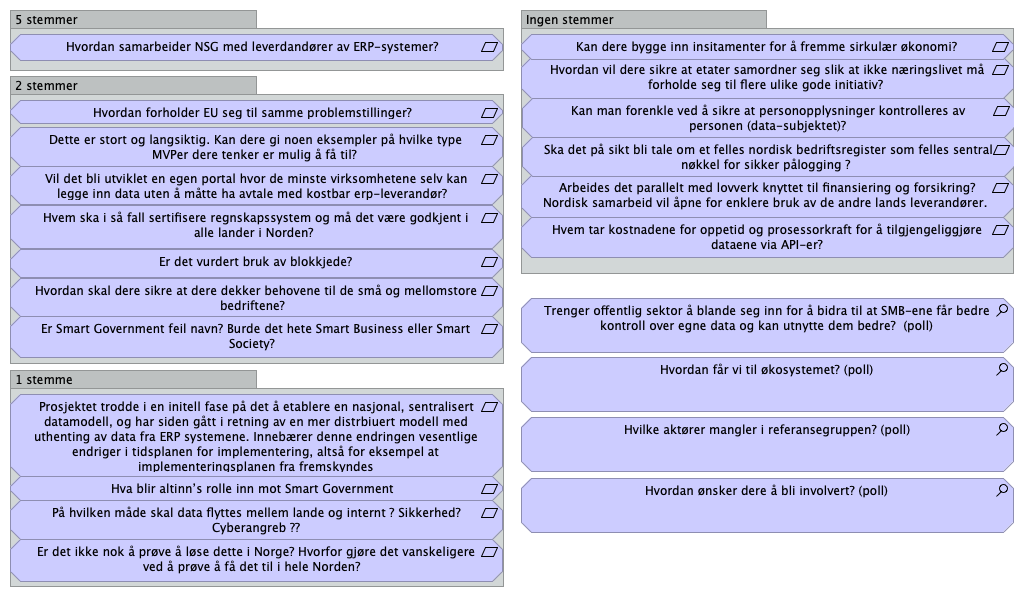
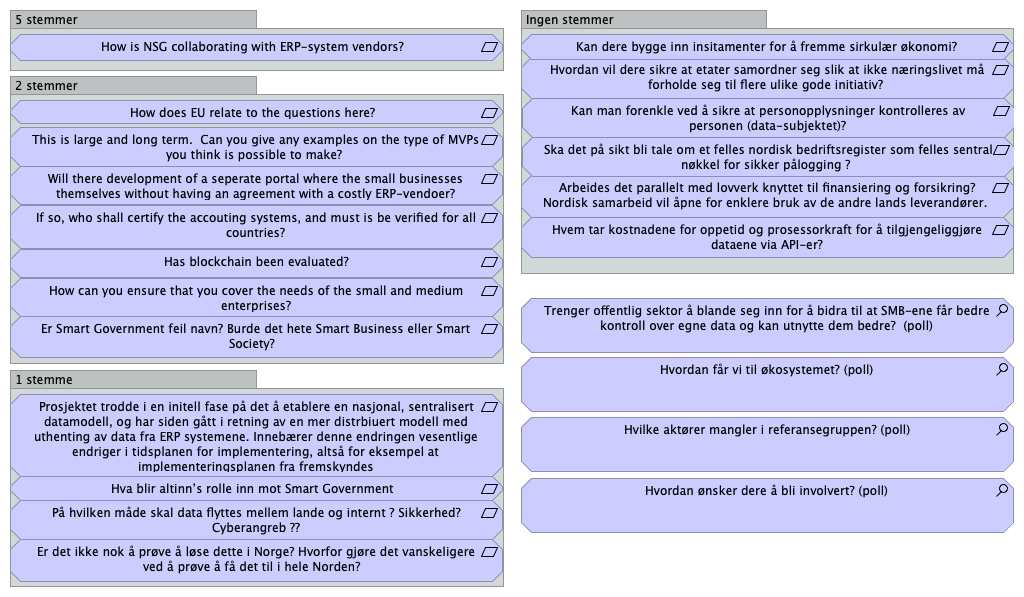
documentation

Changed region(s): [[0.0312, 0.1809, 0.4688, 0.4523], [0.0312, 0.4824, 0.4688, 0.5427], [0.0625, 0.0603, 0.4375, 0.0905]]

diff --git a/docs/index.html b/docs/index.html
@@ -596,9 +596,9 @@
 													<li class="tree-element"><a href="54e87e47-f01c-49fe-af55-2068f4564bd2/elements/5837d2c0-83d3-4c63-b780-0b61f04c67fe.html" target="element"> Fremtiden, sikre kjeder </a></li>
 													<li class="tree-element"><a href="54e87e47-f01c-49fe-af55-2068f4564bd2/elements/690015ae-1257-4f6d-96e3-61300d201adb.html" target="element"> SSB er med </a></li>
 													<li class="tree-element"><a href="54e87e47-f01c-49fe-af55-2068f4564bd2/elements/8bc7e39a-cb68-4da4-97e9-a180cccfc1c7.html" target="element"> Kan dere bygge inn insitamenter for &#229; fremme sirkul&#230;r &#248;konomi? </a></li>
-													<li class="tree-element"><a href="54e87e47-f01c-49fe-af55-2068f4564bd2/elements/8e9544b5-77bb-4204-9220-537d219df1c4.html" target="element"> Hvordan forholder EU seg til samme problemstillinger?   </a></li>
-													<li class="tree-element"><a href="54e87e47-f01c-49fe-af55-2068f4564bd2/elements/28fc962b-de54-4f29-a3e7-457b409d42a0.html" target="element"> Hvordan samarbeider NSG med leverdand&#248;rer av ERP-systemer?   </a></li>
-													<li class="tree-element"><a href="54e87e47-f01c-49fe-af55-2068f4564bd2/elements/20a96016-dc22-4dfe-a6c0-c456c0622a7b.html" target="element"> Dette er stort og langsiktig. Kan dere gi noen eksempler p&#229; hvilke type MVPer dere tenker er mulig &#229; f&#229; til?  </a></li>
+													<li class="tree-element"><a href="54e87e47-f01c-49fe-af55-2068f4564bd2/elements/8e9544b5-77bb-4204-9220-537d219df1c4.html" target="element"> How does EU relate to the questions here?   </a></li>
+													<li class="tree-element"><a href="54e87e47-f01c-49fe-af55-2068f4564bd2/elements/28fc962b-de54-4f29-a3e7-457b409d42a0.html" target="element"> How is NSG collaborating with ERP-system vendors?   </a></li>
+													<li class="tree-element"><a href="54e87e47-f01c-49fe-af55-2068f4564bd2/elements/20a96016-dc22-4dfe-a6c0-c456c0622a7b.html" target="element"> This is large and long term.  Can you give any examples on the type of MVPs you think is possible to make?  </a></li>
 													<li class="tree-element"><a href="54e87e47-f01c-49fe-af55-2068f4564bd2/elements/f37de0f2-119c-417b-850d-3db151cee11a.html" target="element"> Hvordan vil dere sikre at etater samordner seg slik at ikke n&#230;ringslivet m&#229; forholde seg til flere ulike gode initiativ?  </a></li>
 													<li class="tree-element"><a href="54e87e47-f01c-49fe-af55-2068f4564bd2/elements/b20498c5-f345-48c4-a2fb-5e942b6e6014.html" target="element"> Kan man forenkle ved &#229; sikre at personopplysninger kontrolleres av personen (data-subjektet)? </a></li>
 													<li class="tree-element"><a href="54e87e47-f01c-49fe-af55-2068f4564bd2/elements/6fef4564-1aa9-476e-b331-51effa976ce3.html" target="element"> Ska det p&#229; sikt bli tale om et felles nordisk bedriftsregister som felles sentral n&#248;kkel for sikker p&#229;logging ?  </a></li>
@@ -607,14 +607,14 @@
 													<li class="tree-element"><a href="54e87e47-f01c-49fe-af55-2068f4564bd2/elements/5c370b06-c60e-4155-b5b1-b52bf1fa7c15.html" target="element"> WTO:  Agreement on Trade-Related Aspects of Intellectual Property Rights (TRIPS)   </a></li>
 													<li class="tree-element"><a href="54e87e47-f01c-49fe-af55-2068f4564bd2/elements/4e845139-0257-4b12-b0ff-97636237c300.html" target="element"> Undisclosed information </a></li>
 													<li class="tree-element"><a href="54e87e47-f01c-49fe-af55-2068f4564bd2/elements/3b628977-65da-4517-b8df-cae471be0c7a.html" target="element"> Arbeides det parallelt med lovverk knyttet til finansiering og forsikring? Nordisk samarbeid vil &#229;pne for enklere bruk av de andre lands leverand&#248;rer.  </a></li>
-													<li class="tree-element"><a href="54e87e47-f01c-49fe-af55-2068f4564bd2/elements/6c9e515a-c5bd-4cc8-aa9f-ce89ebdc07be.html" target="element"> Vil det bli utviklet en egen portal hvor de minste virksomhetene selv kan legge inn data uten &#229; m&#229;tte ha avtale med kostbar erp-leverand&#248;r?   </a></li>
-													<li class="tree-element"><a href="54e87e47-f01c-49fe-af55-2068f4564bd2/elements/4829e155-0b21-41a0-8cad-3a2e3bdec14c.html" target="element"> Hvem ska i s&#229; fall sertifisere regnskapssystem og m&#229; det v&#230;re godkjent i alle lander i Norden?  </a></li>
+													<li class="tree-element"><a href="54e87e47-f01c-49fe-af55-2068f4564bd2/elements/6c9e515a-c5bd-4cc8-aa9f-ce89ebdc07be.html" target="element"> Will there development of a seperate portal where the small businesses themselves without having an agreement with a costly ERP-vendoer? </a></li>
+													<li class="tree-element"><a href="54e87e47-f01c-49fe-af55-2068f4564bd2/elements/4829e155-0b21-41a0-8cad-3a2e3bdec14c.html" target="element"> If so, who shall certify the accouting systems, and must is be verified for all countries? </a></li>
 													<li class="tree-element"><a href="54e87e47-f01c-49fe-af55-2068f4564bd2/elements/9d3a917a-ad94-4b61-a7a8-106d4c164755.html" target="element"> Hva blir altinn&#8217;s rolle inn mot Smart Government   </a></li>
 													<li class="tree-element"><a href="54e87e47-f01c-49fe-af55-2068f4564bd2/elements/a9b893a2-9598-4b15-911f-8b4c71afad77.html" target="element"> P&#229; hvilken m&#229;de skal data flyttes mellem lande og internt ? Sikkerhed? Cyberangreb ?? </a></li>
-													<li class="tree-element"><a href="54e87e47-f01c-49fe-af55-2068f4564bd2/elements/c95b5acd-4e6f-43a1-8996-a1913cf5fb74.html" target="element"> Er det vurdert bruk av blokkjede? </a></li>
+													<li class="tree-element"><a href="54e87e47-f01c-49fe-af55-2068f4564bd2/elements/c95b5acd-4e6f-43a1-8996-a1913cf5fb74.html" target="element"> Has blockchain been evaluated? </a></li>
 													<li class="tree-element"><a href="54e87e47-f01c-49fe-af55-2068f4564bd2/elements/5e92a653-27f1-4c33-b1ed-0b74d7776b49.html" target="element"> Er Smart Government feil navn? Burde det hete Smart Business eller Smart Society?   </a></li>
 													<li class="tree-element"><a href="54e87e47-f01c-49fe-af55-2068f4564bd2/elements/21cd03fa-d93f-4369-9f67-f95129f2e5c9.html" target="element"> Er det ikke nok &#229; pr&#248;ve &#229; l&#248;se dette i Norge? Hvorfor gj&#248;re det vanskeligere ved &#229; pr&#248;ve &#229; f&#229; det til i hele Norden?   </a></li>
-													<li class="tree-element"><a href="54e87e47-f01c-49fe-af55-2068f4564bd2/elements/cc54483f-bda1-4259-884f-cc55718f9716.html" target="element"> Hvordan skal dere sikre at dere dekker behovene til de sm&#229; og mellomstore bedriftene?   </a></li>
+													<li class="tree-element"><a href="54e87e47-f01c-49fe-af55-2068f4564bd2/elements/cc54483f-bda1-4259-884f-cc55718f9716.html" target="element"> How can you ensure that you cover the needs of the small and medium enterprises? </a></li>
 													<li class="tree-element"><a href="54e87e47-f01c-49fe-af55-2068f4564bd2/elements/341e599f-01a3-43ad-bb1e-1b3b62fd7945.html" target="element"> Trenger offentlig sektor &#229; blande seg inn for &#229; bidra til at SMB-ene f&#229;r bedre kontroll over egne data og kan utnytte dem bedre?  (poll) </a></li>
 													<li class="tree-element"><a href="54e87e47-f01c-49fe-af55-2068f4564bd2/elements/48bc05c4-8a10-4c6a-b93d-f9fb4befa66b.html" target="element"> Hvordan f&#229;r vi til &#248;kosystemet? (poll) </a></li>
 													<li class="tree-element"><a href="54e87e47-f01c-49fe-af55-2068f4564bd2/elements/22d9683b-867b-47e1-8be6-19624324a46a.html" target="element"> Hvordan &#248;nsker dere &#229; bli involvert? (poll) </a></li>

diff --git a/docs/54e87e47-f01c-49fe-af55-2068f4564bd2/views/e0eb4804-d8e0-4310-8a4f-a924dd158fdf.html b/docs/54e87e47-f01c-49fe-af55-2068f4564bd2/views/e0eb4804-d8e0-4310-8a4f-a924dd158fdf.html
@@ -93,15 +93,15 @@
 										<tr><td> <a href="../elements/341e599f-01a3-43ad-bb1e-1b3b62fd7945.html" target="element"> Trenger offentlig sektor &#229; blande seg inn for &#229; bidra til at SMB-ene f&#229;r bedre kontroll over egne data og kan utnytte dem bedre?  (poll) </a> </td><td class="i18n-elementtype-Assessment"></td></tr>
 										<!-- DEBUG: Skipping element from class com.archimatetool.model.impl.DiagramModelGroup -->	
 												<tr><td> <a href="../elements/5e92a653-27f1-4c33-b1ed-0b74d7776b49.html" target="element"> Er Smart Government feil navn? Burde det hete Smart Business eller Smart Society?   </a> </td><td class="i18n-elementtype-Requirement"></td></tr>
-												<tr><td> <a href="../elements/cc54483f-bda1-4259-884f-cc55718f9716.html" target="element"> Hvordan skal dere sikre at dere dekker behovene til de sm&#229; og mellomstore bedriftene?   </a> </td><td class="i18n-elementtype-Requirement"></td></tr>
-												<tr><td> <a href="../elements/c95b5acd-4e6f-43a1-8996-a1913cf5fb74.html" target="element"> Er det vurdert bruk av blokkjede? </a> </td><td class="i18n-elementtype-Requirement"></td></tr>
-												<tr><td> <a href="../elements/4829e155-0b21-41a0-8cad-3a2e3bdec14c.html" target="element"> Hvem ska i s&#229; fall sertifisere regnskapssystem og m&#229; det v&#230;re godkjent i alle lander i Norden?  </a> </td><td class="i18n-elementtype-Requirement"></td></tr>
-												<tr><td> <a href="../elements/6c9e515a-c5bd-4cc8-aa9f-ce89ebdc07be.html" target="element"> Vil det bli utviklet en egen portal hvor de minste virksomhetene selv kan legge inn data uten &#229; m&#229;tte ha avtale med kostbar erp-leverand&#248;r?   </a> </td><td class="i18n-elementtype-Requirement"></td></tr>
-												<tr><td> <a href="../elements/20a96016-dc22-4dfe-a6c0-c456c0622a7b.html" target="element"> Dette er stort og langsiktig. Kan dere gi noen eksempler p&#229; hvilke type MVPer dere tenker er mulig &#229; f&#229; til?  </a> </td><td class="i18n-elementtype-Requirement"></td></tr>
-												<tr><td> <a href="../elements/8e9544b5-77bb-4204-9220-537d219df1c4.html" target="element"> Hvordan forholder EU seg til samme problemstillinger?   </a> </td><td class="i18n-elementtype-Requirement"></td></tr>
+												<tr><td> <a href="../elements/cc54483f-bda1-4259-884f-cc55718f9716.html" target="element"> How can you ensure that you cover the needs of the small and medium enterprises? </a> </td><td class="i18n-elementtype-Requirement"></td></tr>
+												<tr><td> <a href="../elements/c95b5acd-4e6f-43a1-8996-a1913cf5fb74.html" target="element"> Has blockchain been evaluated? </a> </td><td class="i18n-elementtype-Requirement"></td></tr>
+												<tr><td> <a href="../elements/4829e155-0b21-41a0-8cad-3a2e3bdec14c.html" target="element"> If so, who shall certify the accouting systems, and must is be verified for all countries? </a> </td><td class="i18n-elementtype-Requirement"></td></tr>
+												<tr><td> <a href="../elements/6c9e515a-c5bd-4cc8-aa9f-ce89ebdc07be.html" target="element"> Will there development of a seperate portal where the small businesses themselves without having an agreement with a costly ERP-vendoer? </a> </td><td class="i18n-elementtype-Requirement"></td></tr>
+												<tr><td> <a href="../elements/20a96016-dc22-4dfe-a6c0-c456c0622a7b.html" target="element"> This is large and long term.  Can you give any examples on the type of MVPs you think is possible to make?  </a> </td><td class="i18n-elementtype-Requirement"></td></tr>
+												<tr><td> <a href="../elements/8e9544b5-77bb-4204-9220-537d219df1c4.html" target="element"> How does EU relate to the questions here?   </a> </td><td class="i18n-elementtype-Requirement"></td></tr>
 										
 										<!-- DEBUG: Skipping element from class com.archimatetool.model.impl.DiagramModelGroup -->	
-												<tr><td> <a href="../elements/28fc962b-de54-4f29-a3e7-457b409d42a0.html" target="element"> Hvordan samarbeider NSG med leverdand&#248;rer av ERP-systemer?   </a> </td><td class="i18n-elementtype-Requirement"></td></tr>
+												<tr><td> <a href="../elements/28fc962b-de54-4f29-a3e7-457b409d42a0.html" target="element"> How is NSG collaborating with ERP-system vendors?   </a> </td><td class="i18n-elementtype-Requirement"></td></tr>
 										
 										<!-- DEBUG: Skipping element from class com.archimatetool.model.impl.DiagramModelGroup -->	
 												<tr><td> <a href="../elements/a52cd566-4056-4667-9f46-1db191d540f3.html" target="element"> Prosjektet trodde i en initell fase p&#229; det &#229; etablere en nasjonal, sentralisert datamodell, og har siden g&#229;tt i retning av en mer distrbiuert modell med uthenting av data fra ERP systemene. Inneb&#230;rer denne endringen vesentlige endriger i tidsplanen for implementering, alts&#229; for eksempel at implementeringsplanen fra fremskyndes </a> </td><td class="i18n-elementtype-Requirement"></td></tr>

diff --git a/docs/54e87e47-f01c-49fe-af55-2068f4564bd2/elements/6c9e515a-c5bd-4cc8-aa9f-ce89ebdc07be.html b/docs/54e87e47-f01c-49fe-af55-2068f4564bd2/elements/6c9e515a-c5bd-4cc8-aa9f-ce89ebdc07be.html
@@ -2,7 +2,7 @@
 <html class="frame" lang="en">
 <head>
 	<meta http-equiv="Content-Type" content="text/html;charset=utf-8">
-	<title>Vil det bli utviklet en egen portal hvor de minste virksomhetene selv kan legge inn data uten å måtte ha avtale med kostbar erp-leverandør?  </title>
+	<title>Will there development of a seperate portal where the small businesses themselves without having an agreement with a costly ERP-vendoer?</title>
 
 	<!-- JQUERY (use 1.x branch to be compatible with IE 6/7/8) -->
 	<script type="text/javascript" src="../../lib/jquery/js/jquery-1.11.2.min.js"></script>
@@ -20,7 +20,7 @@
 <body>
 	<div class="panel panel-default root-panel">
 		<div class="panel-heading root-panel-heading">
-			<b>Vil det bli utviklet en egen portal hvor de minste virksomhetene selv kan legge inn data uten &#229; m&#229;tte ha avtale med kostbar erp-leverand&#248;r?  </b>
+			<b>Will there development of a seperate portal where the small businesses themselves without having an agreement with a costly ERP-vendoer?</b>
 			(<span class="i18n-elementtype-Requirement"></span>)
 			<a class="glyphicon glyphicon-info-sign" id="hint-Requirement" target="hint"></a>
 		</div>

diff --git a/docs/54e87e47-f01c-49fe-af55-2068f4564bd2/elements/20a96016-dc22-4dfe-a6c0-c456c0622a7b.html b/docs/54e87e47-f01c-49fe-af55-2068f4564bd2/elements/20a96016-dc22-4dfe-a6c0-c456c0622a7b.html
@@ -2,7 +2,7 @@
 <html class="frame" lang="en">
 <head>
 	<meta http-equiv="Content-Type" content="text/html;charset=utf-8">
-	<title>Dette er stort og langsiktig. Kan dere gi noen eksempler på hvilke type MVPer dere tenker er mulig å få til? </title>
+	<title>This is large and long term.  Can you give any examples on the type of MVPs you think is possible to make? </title>
 
 	<!-- JQUERY (use 1.x branch to be compatible with IE 6/7/8) -->
 	<script type="text/javascript" src="../../lib/jquery/js/jquery-1.11.2.min.js"></script>
@@ -20,7 +20,7 @@
 <body>
 	<div class="panel panel-default root-panel">
 		<div class="panel-heading root-panel-heading">
-			<b>Dette er stort og langsiktig. Kan dere gi noen eksempler p&#229; hvilke type MVPer dere tenker er mulig &#229; f&#229; til? </b>
+			<b>This is large and long term.  Can you give any examples on the type of MVPs you think is possible to make? </b>
 			(<span class="i18n-elementtype-Requirement"></span>)
 			<a class="glyphicon glyphicon-info-sign" id="hint-Requirement" target="hint"></a>
 		</div>

diff --git a/docs/54e87e47-f01c-49fe-af55-2068f4564bd2/elements/4829e155-0b21-41a0-8cad-3a2e3bdec14c.html b/docs/54e87e47-f01c-49fe-af55-2068f4564bd2/elements/4829e155-0b21-41a0-8cad-3a2e3bdec14c.html
@@ -2,7 +2,7 @@
 <html class="frame" lang="en">
 <head>
 	<meta http-equiv="Content-Type" content="text/html;charset=utf-8">
-	<title>Hvem ska i så fall sertifisere regnskapssystem og må det være godkjent i alle lander i Norden? </title>
+	<title>If so, who shall certify the accouting systems, and must is be verified for all countries?</title>
 
 	<!-- JQUERY (use 1.x branch to be compatible with IE 6/7/8) -->
 	<script type="text/javascript" src="../../lib/jquery/js/jquery-1.11.2.min.js"></script>
@@ -20,7 +20,7 @@
 <body>
 	<div class="panel panel-default root-panel">
 		<div class="panel-heading root-panel-heading">
-			<b>Hvem ska i s&#229; fall sertifisere regnskapssystem og m&#229; det v&#230;re godkjent i alle lander i Norden? </b>
+			<b>If so, who shall certify the accouting systems, and must is be verified for all countries?</b>
 			(<span class="i18n-elementtype-Requirement"></span>)
 			<a class="glyphicon glyphicon-info-sign" id="hint-Requirement" target="hint"></a>
 		</div>

diff --git a/docs/54e87e47-f01c-49fe-af55-2068f4564bd2/elements/cc54483f-bda1-4259-884f-cc55718f9716.html b/docs/54e87e47-f01c-49fe-af55-2068f4564bd2/elements/cc54483f-bda1-4259-884f-cc55718f9716.html
@@ -2,7 +2,7 @@
 <html class="frame" lang="en">
 <head>
 	<meta http-equiv="Content-Type" content="text/html;charset=utf-8">
-	<title>Hvordan skal dere sikre at dere dekker behovene til de små og mellomstore bedriftene?  </title>
+	<title>How can you ensure that you cover the needs of the small and medium enterprises?</title>
 
 	<!-- JQUERY (use 1.x branch to be compatible with IE 6/7/8) -->
 	<script type="text/javascript" src="../../lib/jquery/js/jquery-1.11.2.min.js"></script>
@@ -20,7 +20,7 @@
 <body>
 	<div class="panel panel-default root-panel">
 		<div class="panel-heading root-panel-heading">
-			<b>Hvordan skal dere sikre at dere dekker behovene til de sm&#229; og mellomstore bedriftene?  </b>
+			<b>How can you ensure that you cover the needs of the small and medium enterprises?</b>
 			(<span class="i18n-elementtype-Requirement"></span>)
 			<a class="glyphicon glyphicon-info-sign" id="hint-Requirement" target="hint"></a>
 		</div>

diff --git a/docs/54e87e47-f01c-49fe-af55-2068f4564bd2/elements/28fc962b-de54-4f29-a3e7-457b409d42a0.html b/docs/54e87e47-f01c-49fe-af55-2068f4564bd2/elements/28fc962b-de54-4f29-a3e7-457b409d42a0.html
@@ -2,7 +2,7 @@
 <html class="frame" lang="en">
 <head>
 	<meta http-equiv="Content-Type" content="text/html;charset=utf-8">
-	<title>Hvordan samarbeider NSG med leverdandører av ERP-systemer?  </title>
+	<title>How is NSG collaborating with ERP-system vendors?  </title>
 
 	<!-- JQUERY (use 1.x branch to be compatible with IE 6/7/8) -->
 	<script type="text/javascript" src="../../lib/jquery/js/jquery-1.11.2.min.js"></script>
@@ -20,7 +20,7 @@
 <body>
 	<div class="panel panel-default root-panel">
 		<div class="panel-heading root-panel-heading">
-			<b>Hvordan samarbeider NSG med leverdand&#248;rer av ERP-systemer?  </b>
+			<b>How is NSG collaborating with ERP-system vendors?  </b>
 			(<span class="i18n-elementtype-Requirement"></span>)
 			<a class="glyphicon glyphicon-info-sign" id="hint-Requirement" target="hint"></a>
 		</div>

diff --git a/docs/54e87e47-f01c-49fe-af55-2068f4564bd2/elements/8e9544b5-77bb-4204-9220-537d219df1c4.html b/docs/54e87e47-f01c-49fe-af55-2068f4564bd2/elements/8e9544b5-77bb-4204-9220-537d219df1c4.html
@@ -2,7 +2,7 @@
 <html class="frame" lang="en">
 <head>
 	<meta http-equiv="Content-Type" content="text/html;charset=utf-8">
-	<title>Hvordan forholder EU seg til samme problemstillinger?  </title>
+	<title>How does EU relate to the questions here?  </title>
 
 	<!-- JQUERY (use 1.x branch to be compatible with IE 6/7/8) -->
 	<script type="text/javascript" src="../../lib/jquery/js/jquery-1.11.2.min.js"></script>
@@ -20,7 +20,7 @@
 <body>
 	<div class="panel panel-default root-panel">
 		<div class="panel-heading root-panel-heading">
-			<b>Hvordan forholder EU seg til samme problemstillinger?  </b>
+			<b>How does EU relate to the questions here?  </b>
 			(<span class="i18n-elementtype-Requirement"></span>)
 			<a class="glyphicon glyphicon-info-sign" id="hint-Requirement" target="hint"></a>
 		</div>

diff --git a/docs/54e87e47-f01c-49fe-af55-2068f4564bd2/elements/c95b5acd-4e6f-43a1-8996-a1913cf5fb74.html b/docs/54e87e47-f01c-49fe-af55-2068f4564bd2/elements/c95b5acd-4e6f-43a1-8996-a1913cf5fb74.html
@@ -2,7 +2,7 @@
 <html class="frame" lang="en">
 <head>
 	<meta http-equiv="Content-Type" content="text/html;charset=utf-8">
-	<title>Er det vurdert bruk av blokkjede?</title>
+	<title>Has blockchain been evaluated?</title>
 
 	<!-- JQUERY (use 1.x branch to be compatible with IE 6/7/8) -->
 	<script type="text/javascript" src="../../lib/jquery/js/jquery-1.11.2.min.js"></script>
@@ -20,7 +20,7 @@
 <body>
 	<div class="panel panel-default root-panel">
 		<div class="panel-heading root-panel-heading">
-			<b>Er det vurdert bruk av blokkjede?</b>
+			<b>Has blockchain been evaluated?</b>
 			(<span class="i18n-elementtype-Requirement"></span>)
 			<a class="glyphicon glyphicon-info-sign" id="hint-Requirement" target="hint"></a>
 		</div>
